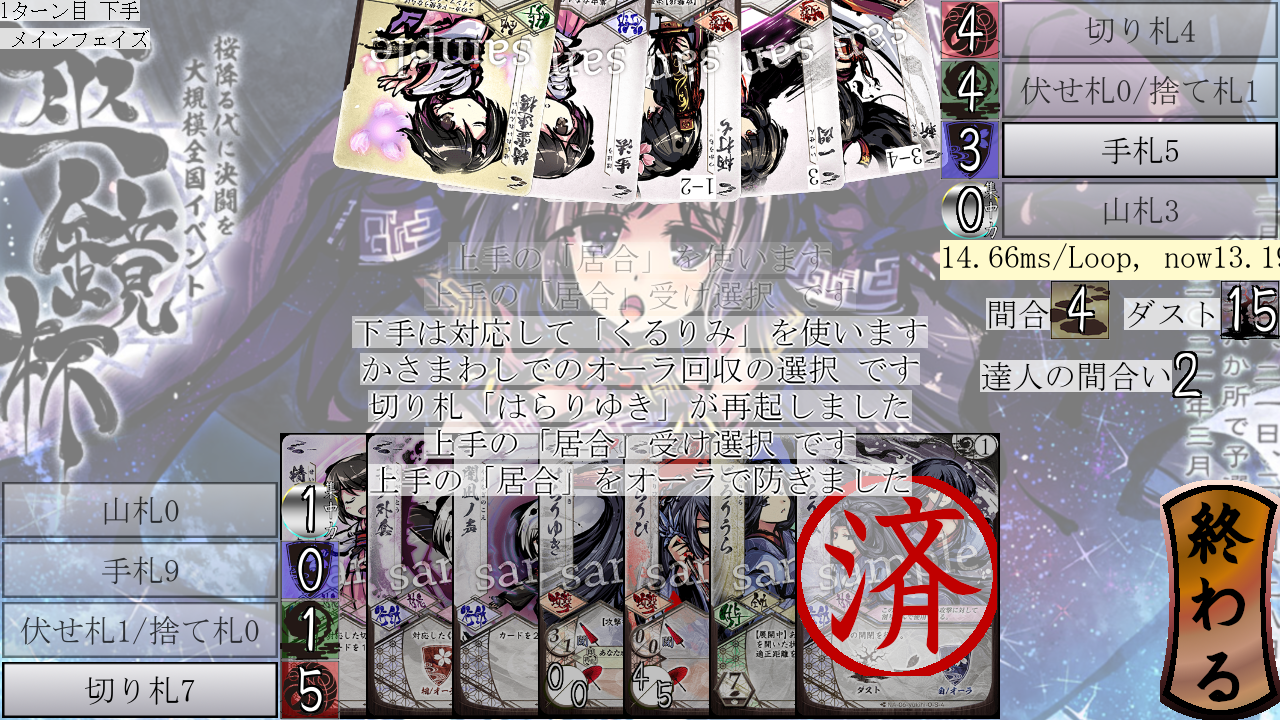
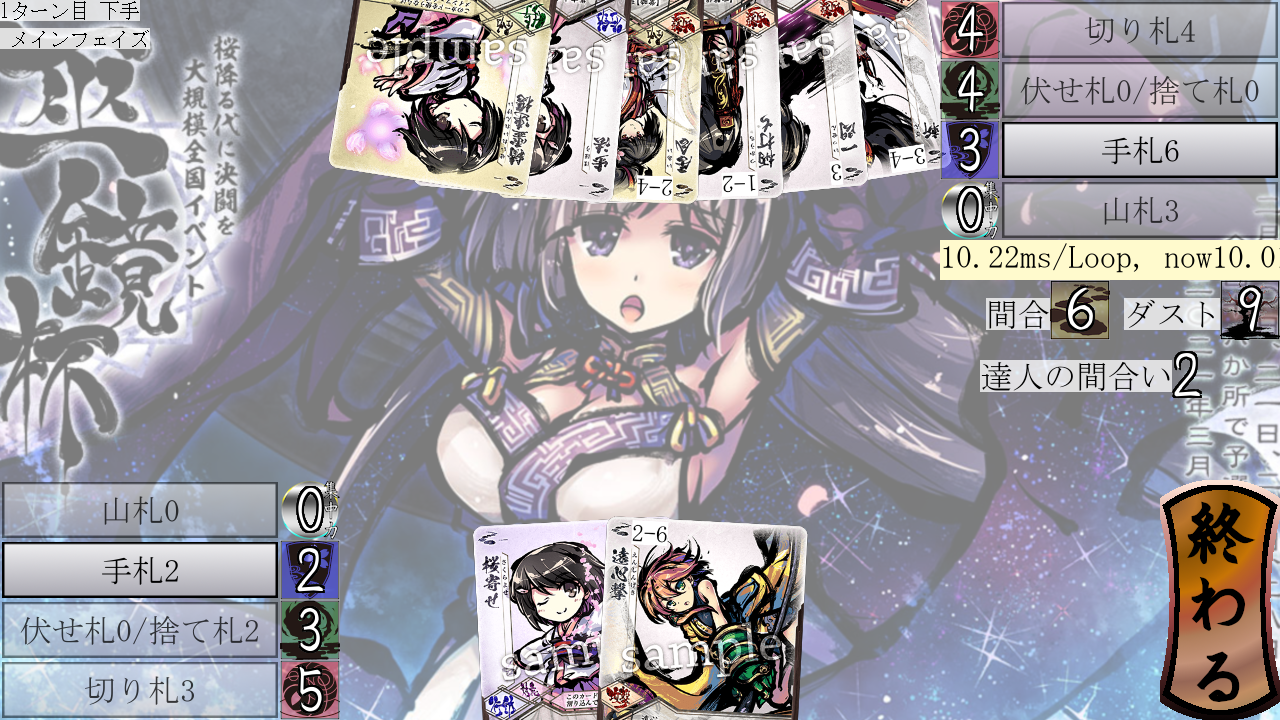
J721:遠心と遠心撃と終端に近いフェイズ終了を実装

diff --git a/kaiketus/m08o.py b/kaiketus/m08o.py
@@ -1,0 +1,67 @@
+#                 20                  40                  60                 79
+import pygame
+from pygame import Surface
+from copy import copy
+
+from mod.const import enforce, opponent, MG_HAGANE, CT_KOUGEKI, CT_KOUDOU, CT_HUYO, CT_ZENRYOKU,\
+    CT_TAIOU, UC_LIFE, IMG_BYTE, UC_MAAI, UC_ZYOGAI, UC_SYUUTYUU, TG_KAIHEI, IMG_NO_CHOICE,\
+    UC_AURA, UC_FLAIR, UC_DUST, SC_TATUZIN, POP_OK, POP_OPEN, POP_ACT1, POP_ACT2, POP_ACT3, POP_ACT4, POP_ACT5, TG_END_PHASE,\
+    SC_DORORIURA, TC_YAMAHUDA, TC_TEHUDA, TC_HUSEHUDA, TC_SUTEHUDA, TC_KIRIHUDA, OBAL_USE_CARD,\
+    USAGE_USED, USAGE_UNUSED
+from mod.classes import Callable, Card, Huda, Delivery, moderator, popup_message
+from mod.card.card import auto_di, int_di, dima_di, BoolDI, SuuziDI, MaaiDI, BoolDIC, nega_dic
+from mod.card.temp_koudou import TempKoudou
+from mod.coous.attack_correction import Attack, AttackCorrection, mine_cf, BoolDIIC, auto_diic
+from mod.ol.pop_stat import PopStat
+from mod.ol.choice import choice_layer
+from mod.ol.use_card_layer import use_card_layer
+from mod.card.kw.suki import suki_card
+from mod.card.kw.papl import papl_attack, papl_kougeki
+from mod.card.kw.step import each_step
+from mod.card.kw.saikousei import saikousei_card
+from mod.card.kw.yazirusi import Yazirusi, ya_moguri, ya_ridatu, ya_matoi
+from mod.coous.saiki import saiki_trigger
+from mod.coous.scalar_correction import ScalarCorrection, applied_scalar
+from mod.coous.aura_guard import AuraGuard
+from mod.ol.pipeline_layer import PipelineLayer
+from mod.ol.only_select_layer import OnlySelectLayer, NO_CHOICE
+from mod.card.kw.handraw import handraw
+from mod.card.kw.syuutyuu import syuutyuu, isyuku, full_syuutyuu, reduce_syuutyuu
+from mod.card.kw.handraw import handraw_card
+from mod.card.kw.discard import discard_card
+from mod.card.kw.setti import setti_layer
+from mod.card.kw.kasa_kaihei import kasa_kaihei_layer, kaihei_card
+
+_ADDRESS = "na_08_hagane"
+def img_card(add: str) ->  Surface:
+    return pygame.image.load(f"cards/{_ADDRESS}_{add}.png")
+
+def ensin(delivery: Delivery, hoyuusya: int) -> bool:
+    if delivery.m_params(hoyuusya).played_kougeki:
+        popup_message.add("遠心は攻撃済みだと達成できません")
+        return False
+    return delivery.b_params.maai >= delivery.b_params.start_turn_maai+2
+
+def _discard_n_1(delivery: Delivery, hoyuusya: int, is_mine: bool, code: int) -> None:
+    for huda in list(delivery.taba(hoyuusya=hoyuusya if is_mine else opponent(hoyuusya), taba_code=TC_TEHUDA)):
+        delivery.send_huda_to_ryouiki(huda=enforce(huda, Huda), is_mine=True, taba_code=TC_HUSEHUDA)
+    moderator.last_layer().moderate(PopStat(code))
+
+def _reduce_and_phase_end_n_1(delivery: Delivery, hoyuusya: int, code: int) -> None:
+    reduce_syuutyuu(delivery, hoyuusya)
+    delivery.b_params.phase_ended = True
+    moderator.last_layer().moderate(PopStat(code))
+
+def _kouka_n_1(delivery: Delivery, hoyuusya: int) -> None:
+    moderator.append(PipelineLayer("遠心撃：自ターン攻撃後", delivery, hoyuusya, gotoes={
+        POP_OPEN: lambda l, s: _discard_n_1(delivery, hoyuusya, True, POP_ACT1),
+        POP_ACT1: lambda l, s: _discard_n_1(delivery, hoyuusya, False, POP_ACT2),
+        POP_ACT2: lambda l, s: _reduce_and_phase_end_n_1(delivery, hoyuusya, POP_ACT3),
+        POP_ACT3: lambda l, s: moderator.pop()
+    }))
+
+_cond_n_1: BoolDI = lambda delivery, hoyuusya: delivery.turn_player == moderator.last_layer().hoyuusya
+_after_n_1 = TempKoudou("遠心撃：攻撃後", _cond_n_1, kouka=_kouka_n_1)
+
+n_1 = Card(megami=MG_HAGANE, img=img_card("o_n_1_s2"), name="遠心撃", cond=ensin, type=CT_KOUGEKI,
+    aura_damage_func=int_di(5), life_damage_func=int_di(3), maai_list=dima_di(2, 6), after=_after_n_1)

diff --git a/mod/bparams.py b/mod/bparams.py
@@ -4,13 +4,13 @@ from typing import Callable, Any
 class BParams():
     def __init__(self, maai_func: Callable[[], int] | None=None,
                  tatuzin_func: Callable[[], int] | None=None) -> None:
-        self.start_turn()
         self.turn_count = 1
         self._maai_func = maai_func if maai_func else self._default_maai_func
         self._tatuzin_no_maai = 2
         self._tatuzin_func = tatuzin_func if tatuzin_func else self._default_tatuzin_func
         self.tehuda_max = 2
         self.damage_attr = 0
+        self.start_turn()
 
     def start_turn(self) -> None:
         self.during_kougeki = False
@@ -18,6 +18,11 @@ class BParams():
         self.during_taiou = False
         self.sukinagasi = False
         self.attack_megami = -1
+        self.start_turn_maai = self.maai
+        self.start_phase()
+
+    def start_phase(self) -> None:
+        self.phase_ended = False
 
     @property
     def tatuzin_no_maai(self) -> int:

diff --git a/mod/mikoto.py b/mod/mikoto.py
@@ -69,10 +69,10 @@ class Mikoto():
 
     def _simote_make(self) -> None:
         from kaiketus import m00a, m00b
-        self.m_params.has_yukihi = True
-        from kaiketus.m06o import n_1, n_2, n_3, n_4, n_5, n_6, n_7, s_1, s_2, s_3, s_4
-        hands = [m00b.n_4, m00b.n_5, m00b.n_6, n_1, n_2, n_3, n_4, n_5, n_6, n_7]
-        trumps = [m00b.s_3, m00a.s_3, m00a.s_2, s_1, s_2, s_3, s_4]
+        # self.m_params.has_yukihi = True
+        from kaiketus.m08o import n_1#, n_2, n_3, n_4, n_5, n_6, n_7, s_1, s_2, s_3, s_4
+        hands = [m00b.n_4, m00b.n_5, m00b.n_6, n_1]#, n_2, n_3, n_4, n_5, n_6, n_7]
+        trumps = [m00b.s_3, m00a.s_3, m00a.s_2]#, s_1, s_2, s_3, s_4]
         self.yamahuda = yamahuda_factory.maid_by_cards(cards=[], hoyuusya=self.hoyuusya)
         self.tehuda = tehuda_factory.maid_by_cards(cards=hands, hoyuusya=self.hoyuusya)
         self.kirihuda = kirihuda_factory.maid_by_cards(cards=trumps, hoyuusya=self.hoyuusya)

diff --git a/mod/huda/huda.py b/mod/huda/huda.py
@@ -64,6 +64,7 @@ class Huda(Youso):
             (self.delivery.m_params(self.hoyuusya).played_zenryoku, "既に全力行動しています"),
             (self.delivery.m_params(self.hoyuusya).played_syuutan, "既に終端行動しています"),
             (is_zenryoku and self.card.zenryoku and self.delivery.m_params(self.hoyuusya).played_standard, "既に標準行動しています"),
+            (self.delivery.b_params.phase_ended, "フェイズが終了しています"),
             (self.usage == USAGE_DEPLOYED, f"「{self.card.name}」は展開中です"),
             (self.usage == USAGE_USED, f"「{self.card.name}」は使用済みです"),
             (not self.card.is_full(delivery=self.delivery, hoyuusya=self.hoyuusya), f"「{self.card.name}」に費やすフレアが足りません")

diff --git a/mod/ol/turns_progression/turns_progression.py b/mod/ol/turns_progression/turns_progression.py
@@ -15,12 +15,15 @@ def _open(layer: PipelineLayer, stat: PopStat) -> None:
     layer.name = _layer_name(delivery=layer.delivery)
 
 def _start_phase_finished(layer: PipelineLayer, stat: PopStat) -> None:
+    layer.delivery.b_params.start_phase()
     moderator.append(MainPhase(delivery=layer.delivery, inject_func=layer.inject_func))
 
 def _main_phase_finished(layer: PipelineLayer, stat: PopStat) -> None:
+    layer.delivery.b_params.start_phase()
     moderator.append(end_phase_layer(layer.delivery))
 
 def _end_phase_finished(layer: PipelineLayer, stat: PopStat) -> None:
+    layer.delivery.b_params.start_phase()
     layer.delivery.b_params.turn_count += 1
     layer.delivery.turn_player = opponent(layer.delivery.turn_player)
     layer.name = _layer_name(delivery=layer.delivery)

diff --git a/py.py b/py.py
@@ -17,6 +17,7 @@ banmen.send_ouka_to_ryouiki(hoyuusya=SIMOTE, from_mine=False, from_code=UC_MAAI,
 # banmen.send_ouka_to_ryouiki(hoyuusya=SIMOTE, from_mine=False, from_code=UC_ZYOGAI, to_mine=False, to_code=UC_DUST, kazu=10)
 banmen.send_ouka_to_ryouiki(hoyuusya=SIMOTE, from_mine=True, from_code=UC_LIFE, to_mine=False, to_code=UC_DUST, kazu=5)
 banmen.send_ouka_to_ryouiki(hoyuusya=KAMITE, from_mine=True, from_code=UC_LIFE, to_mine=False, to_code=UC_DUST, kazu=5)
+banmen.b_params.start_turn_maai = 4
 
 moderator.delivery = banmen
 moderator.append(turns_progression_layer(delivery=banmen, inject_func=banmen.inject_main_phase))

diff --git a/mod/ol/play_kougeki/play_kougeki.py b/mod/ol/play_kougeki/play_kougeki.py
@@ -21,6 +21,7 @@ def _open(layer: PipelineLayer, stat: PopStat, code: int) -> None:
     layer.delivery.b_params.during_kougeki = True
     layer.delivery.b_params.during_kirihuda = card.kirihuda
     layer.delivery.b_params.attack_megami = card.megami
+    layer.delivery.m_params(hoyuusya).played_kougeki = True
     upper = uke_cards(card=card, delivery=delivery, hoyuusya=hoyuusya)
     lower = taiou_hudas(card=card, delivery=delivery, hoyuusya=hoyuusya)
     if stat.switch or layer.delivery.b_params.during_taiou:

diff --git a/mod/mkt/mparams.py b/mod/mkt/mparams.py
@@ -11,6 +11,7 @@ class MParams():
 
     def start_turn(self) -> None:
         self.lingerings: list[Any] = []
+        self.played_kougeki = False
         self.played_zenryoku = False
         self.played_syuutan = False
         self.played_standard = False
